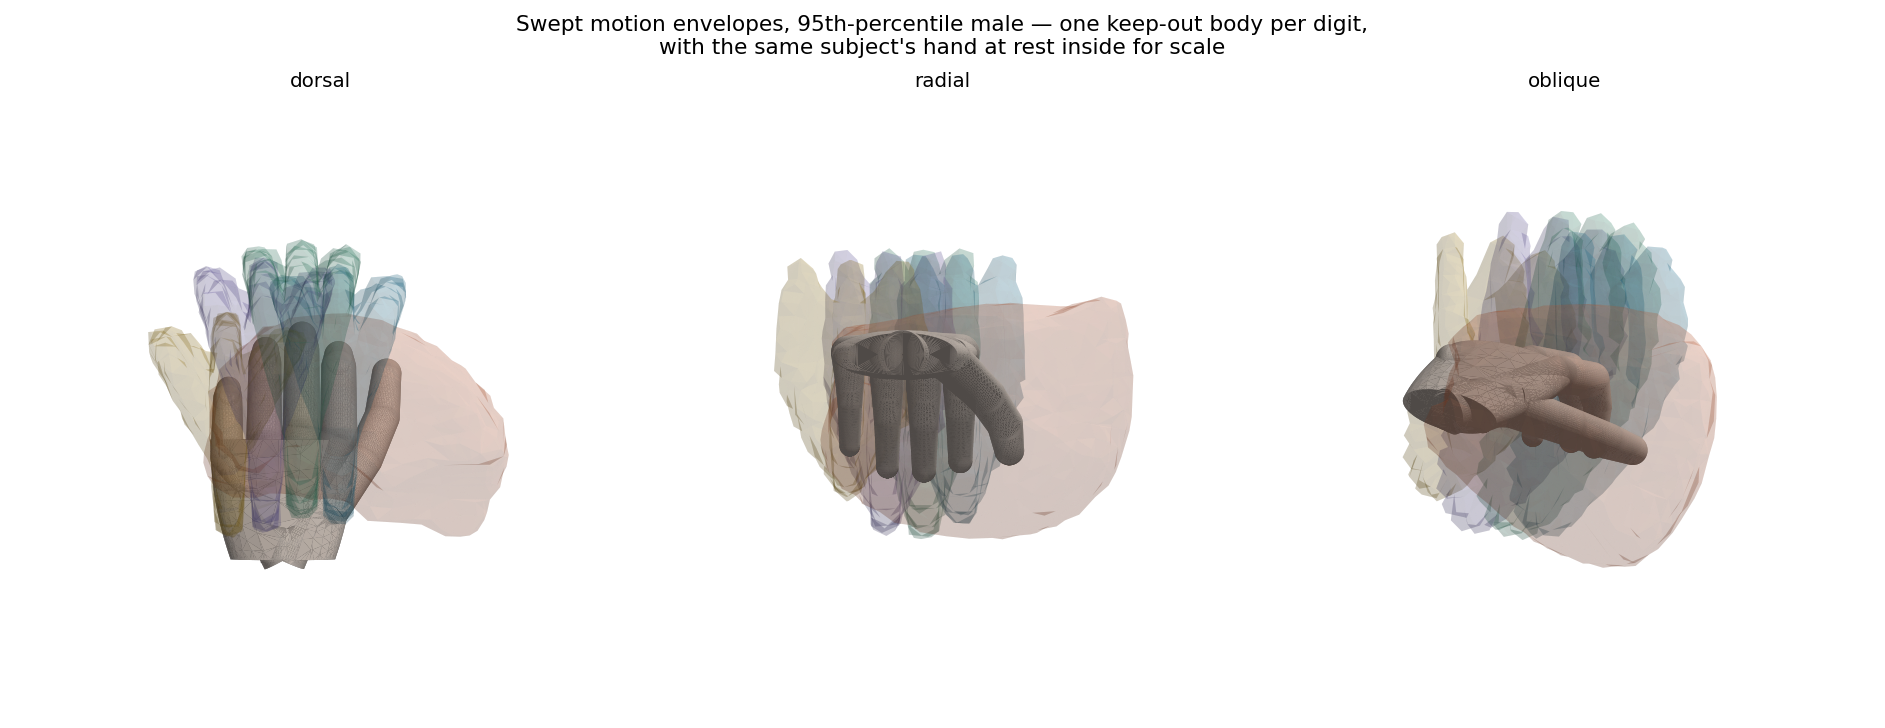
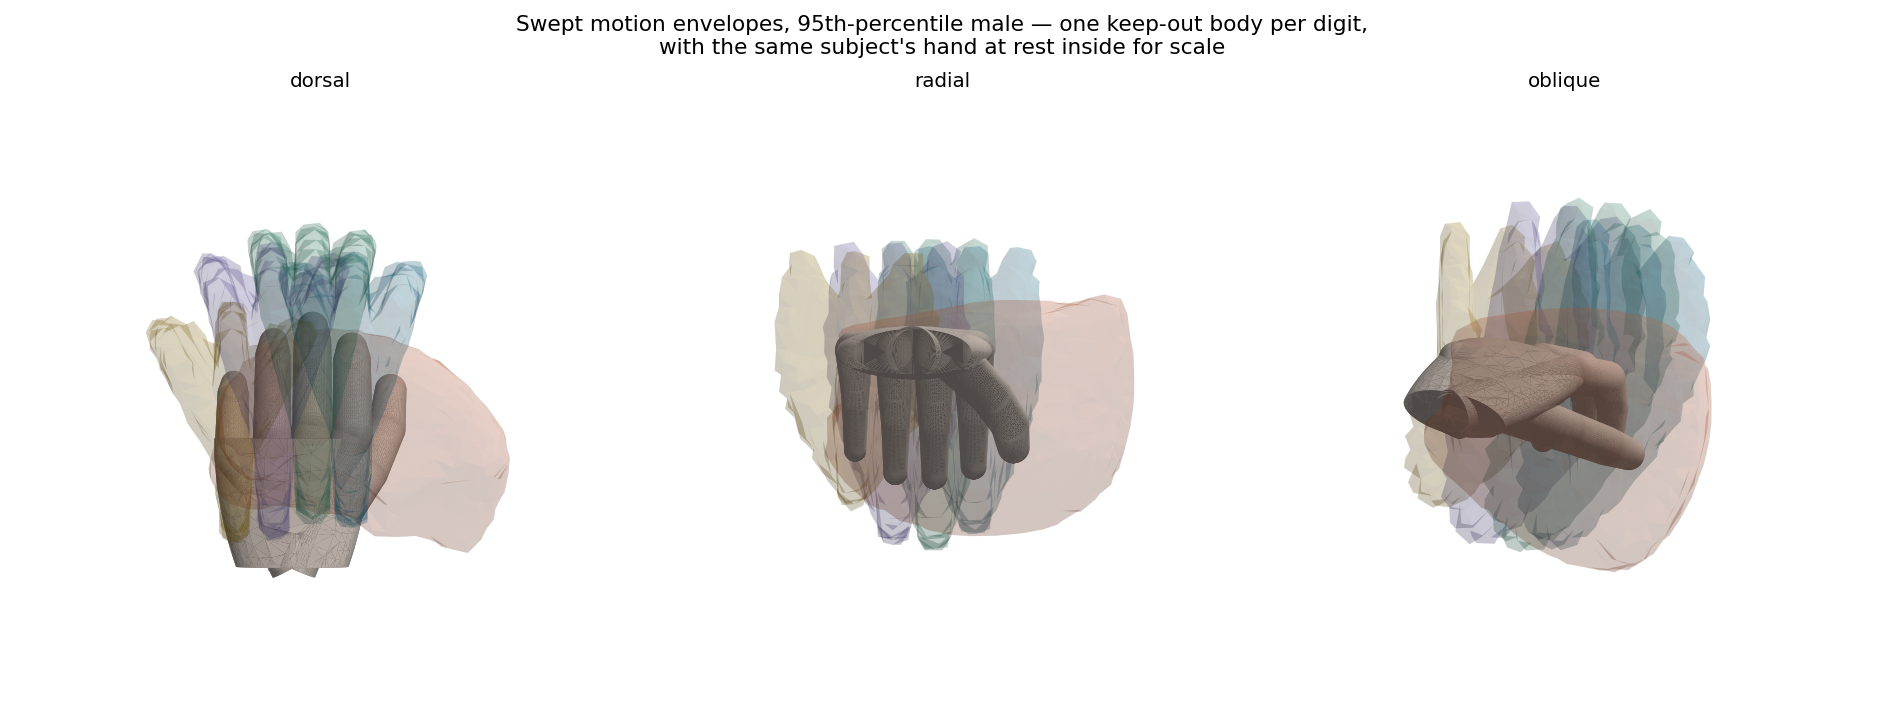
Fix an over-long thumb
The thumb carried Greiner's segment values through, and his thumb
decomposition is the part of that report that does not survive validation.
The result reached 11% past his measured tip-to-wrist-crease distance while
every finger sat 2-5% short of it — a 14-point outlier, and visibly wrong.

The thumb is now anatomical: 1st metacarpal 45 mm, proximal phalanx 32 mm,
distal phalanx plus pulp 27 mm at a 194 mm hand, with the trapezium pulled in
to 0.24 HB radial and 0.12 HL distal. Calibrated against the one thumb
dimension of Greiner's that is reliable, the overall tip-to-wrist-crease:
-0.2% for a 50th percentile female, -1.8% for a male. Inside the fingers' band
instead of outside it.

The tip-pinch preset is retuned and closes to 1.1 mm, and no longer needs the
thumb rotation pinned at its limit to get there, which the old geometry did.

This moves the swept envelopes: the thumb drops from 2273 to 1790 cm3 and the
union from 3627 to 3358. The conclusion in section 5 holds - the thumb still
sweeps nearly twice any finger - but the earlier figures were inflated and are
corrected.

diff --git a/docs/index.html b/docs/index.html
@@ -259,7 +259,7 @@ const PRESETS = {
 };
 /* segment ratios as fraction of hand length; validated against measured tip-to-wrist totals */
 const SEG = {
-  thumb :{mc:0.245,pp:0.172,dp:0.170},
+  thumb :{mc:0.232,pp:0.165,dp:0.140},
   index :{mc:0.435,pp:0.247,mp:0.117,dp:0.141},
   middle:{mc:0.432,pp:0.275,mp:0.139,dp:0.141},
   ring  :{mc:0.396,pp:0.268,mp:0.126,dp:0.144},
@@ -267,14 +267,14 @@ const SEG = {
 };
 /* shaft radii as fraction of hand breadth, from joint circumference / pi */
 const RAD = {
-  thumb :{carpal:.150,mc:.134,pp:.126,dp:.105},
+  thumb :{carpal:.150,mc:.134,pp:.126,dp:.112},
   index :{mc:.130,pp:.123,mp:.102,dp:.085},
   middle:{mc:.130,pp:.123,mp:.102,dp:.085},
   ring  :{mc:.124,pp:.115,mp:.094,dp:.079},
   little:{mc:.116,pp:.101,mp:.085,dp:.072}
 };
 const MCP_X = {index:0.39,middle:0.13,ring:-0.13,little:-0.39};   /* × hand breadth */
-const CMC   = {x:0.30,y:0.15,z:-0.01,ray:30,tilt:0,pron:80};
+const CMC   = {x:0.24,y:0.12,z:-0.01,ray:30,tilt:0,pron:80};
 
 /* functional limits (hard bounds) and the tighter AAOS clinical norm, degrees */
 const LIM = {
@@ -292,7 +292,7 @@ const POSES = {
   Spread     :{mcp:0, pip:0,  abd:14, t:{cmcF:10,cmcA:25,cmcR:0,mcp:0,ip:0}},
   Rest       :{mcp:25,pip:45, abd:3,  t:{cmcF:0,cmcA:30,cmcR:0,mcp:10,ip:15}},
   "Power grasp":{mcp:60,pip:75,abd:0, t:{cmcF:15,cmcA:25,cmcR:0,mcp:40,ip:30}},
-  "Tip pinch":{mcp:40,pip:60, abd:0,  t:{cmcF:-15,cmcA:35,cmcR:-20,mcp:50,ip:40}, dip:40},
+  "Tip pinch":{mcp:40,pip:60, abd:0,  t:{cmcF:-5,cmcA:45,cmcR:0,mcp:30,ip:30}, dip:40},
   "Full fist":{mcp:85,pip:105,abd:0,  t:{cmcF:25,cmcA:10,cmcR:0,mcp:50,ip:60}, dip:70}
 };
 

diff --git a/hand_explorer.html b/hand_explorer.html
@@ -243,7 +243,7 @@ const PRESETS = {
 };
 /* segment ratios as fraction of hand length; validated against measured tip-to-wrist totals */
 const SEG = {
-  thumb :{mc:0.245,pp:0.172,dp:0.170},
+  thumb :{mc:0.232,pp:0.165,dp:0.140},
   index :{mc:0.435,pp:0.247,mp:0.117,dp:0.141},
   middle:{mc:0.432,pp:0.275,mp:0.139,dp:0.141},
   ring  :{mc:0.396,pp:0.268,mp:0.126,dp:0.144},
@@ -251,14 +251,14 @@ const SEG = {
 };
 /* shaft radii as fraction of hand breadth, from joint circumference / pi */
 const RAD = {
-  thumb :{carpal:.150,mc:.134,pp:.126,dp:.105},
+  thumb :{carpal:.150,mc:.134,pp:.126,dp:.112},
   index :{mc:.130,pp:.123,mp:.102,dp:.085},
   middle:{mc:.130,pp:.123,mp:.102,dp:.085},
   ring  :{mc:.124,pp:.115,mp:.094,dp:.079},
   little:{mc:.116,pp:.101,mp:.085,dp:.072}
 };
 const MCP_X = {index:0.39,middle:0.13,ring:-0.13,little:-0.39};   /* × hand breadth */
-const CMC   = {x:0.30,y:0.15,z:-0.01,ray:30,tilt:0,pron:80};
+const CMC   = {x:0.24,y:0.12,z:-0.01,ray:30,tilt:0,pron:80};
 
 /* functional limits (hard bounds) and the tighter AAOS clinical norm, degrees */
 const LIM = {
@@ -276,7 +276,7 @@ const POSES = {
   Spread     :{mcp:0, pip:0,  abd:14, t:{cmcF:10,cmcA:25,cmcR:0,mcp:0,ip:0}},
   Rest       :{mcp:25,pip:45, abd:3,  t:{cmcF:0,cmcA:30,cmcR:0,mcp:10,ip:15}},
   "Power grasp":{mcp:60,pip:75,abd:0, t:{cmcF:15,cmcA:25,cmcR:0,mcp:40,ip:30}},
-  "Tip pinch":{mcp:40,pip:60, abd:0,  t:{cmcF:-15,cmcA:35,cmcR:-20,mcp:50,ip:40}, dip:40},
+  "Tip pinch":{mcp:40,pip:60, abd:0,  t:{cmcF:-5,cmcA:45,cmcR:0,mcp:30,ip:30}, dip:40},
   "Full fist":{mcp:85,pip:105,abd:0,  t:{cmcF:25,cmcA:10,cmcR:0,mcp:50,ip:60}, dip:70}
 };
 

diff --git a/hand_kinematics.py b/hand_kinematics.py
@@ -254,8 +254,7 @@ POSES = {
     "spread": pose(abd=12),
     "rest": pose(mcp=25, pip=45, t_abd=30, t_mcp=10, t_ip=15),
     "power grasp": pose(mcp=60, pip=75, dip=45, t_abd=25, t_flex=15, t_mcp=40, t_ip=30),
-    "tip pinch": pose(mcp=40, pip=60, dip=40, t_flex=-15, t_abd=35, t_rot=-20,
-                      t_mcp=50, t_ip=40),
+    "tip pinch": pose(mcp=40, pip=60, dip=40, t_flex=-5, t_abd=45, t_mcp=30, t_ip=30),
     "full fist": pose(mcp=85, pip=105, dip=70, t_abd=10, t_flex=25, t_mcp=50, t_ip=60),
 }
 

diff --git a/hand_anthropometry.md b/hand_anthropometry.md
@@ -61,7 +61,7 @@ or a marker actually sees).
 
 | Digit | MC | PP | MP | DP | Σ (= tip-to-wrist) |
 |---|---|---|---|---|---|
-| Thumb | 0.245 | 0.172 (MCP→IP) | 0.170 | — | 0.587 |
+| Thumb | 0.232 | 0.165 (MCP→IP) | 0.140 | — | 0.537 |
 | Index | 0.435 | 0.247 | 0.117 | 0.141 | 0.940 |
 | Middle | 0.432 | 0.275 | 0.139 | 0.141 | 0.987 |
 | Ring | 0.396 | 0.268 | 0.126 | 0.144 | 0.934 |
@@ -85,8 +85,24 @@ why I trust these ratios.
    proximal phalanx of ~31 mm, and MC + PP + DP overshoots the D1 link length
    by 1.5 cm. His "D1 metacarpal link" runs from the thenar crease and swallows
    most of the proximal phalanx. **Do not use rows `d1_proximal_phalanx_link`
-   or `d1_metacarpal_link` for a kinematic chain.** I substituted anatomical
-   thumb proportions instead.
+   or `d1_metacarpal_link` for a kinematic chain.**
+
+   The thumb here is anatomical instead — 1st metacarpal 45 mm, proximal
+   phalanx 32 mm, distal phalanx plus pulp 27 mm at a 194 mm hand — with the
+   trapezium at 0.24 HB radial and 0.12 HL distal. Those five numbers are
+   calibrated against the one thumb dimension of Greiner's that *is* reliable,
+   the overall tip-to-wrist-crease distance:
+
+   | | model | Greiner | error |
+   |---|---|---|---|
+   | wrist → thumb tip, 50th %ile female | 125.5 mm | 125.7 mm | −0.2% |
+   | wrist → thumb tip, 50th %ile male | 135.5 mm | 137.9 mm | −1.8% |
+
+   For comparison the fingers land at −0.2% to −5.2% on the same measure, so
+   the thumb now sits inside the same band rather than outside it. An earlier
+   version of this model carried Greiner's segment values through and came out
+   **+10.9% — a visibly over-long thumb**, which also inflated every thumb
+   figure in section 5.
 
 ---
 
@@ -311,23 +327,23 @@ grid handles 12,000 capsules in about 20 seconds.
 
 | Digit | Swept volume |
 |---|---|
-| thumb | 2273 cm³ |
+| thumb | 1790 cm³ |
 | middle | 978 cm³ |
 | ring | 944 cm³ |
 | index | 884 cm³ |
 | little | 642 cm³ |
-| **union** | **3627 cm³** |
+| **union** | **3358 cm³** |
 
 Plus `envelope_<subject>_report.json` with every pairwise overlap, and a
 `_union.stl` for the single question "does my frame ever touch the hand at all".
 
 ### Two things the numbers say
 
-**The thumb eats the palmar half-space.** Its 5-DoF sweep is 2273 cm³ — more
-than twice any finger, and roughly ten times the volume of the hand itself. It
-overlaps the index envelope by 533 cm³ and still overlaps the *little* finger by
-266 cm³. Practically: there is almost nowhere on the palmar side to put fixed
-structure. Anything that has to be rigid belongs on the dorsum.
+**The thumb eats the palmar half-space.** Its 5-DoF sweep is 1790 cm³ — nearly
+twice any finger, and roughly five times the volume of the hand itself. It
+overlaps the index envelope by 401 cm³ and still reaches into the *little*
+finger's envelope. Practically: there is almost nowhere on the palmar side to
+put fixed structure. Anything that has to be rigid belongs on the dorsum.
 
 **Adjacent fingers sweep through each other.** index/middle share 345 cm³,
 middle/ring 366 cm³. Inter-finger space is not available for hardware. Anything
